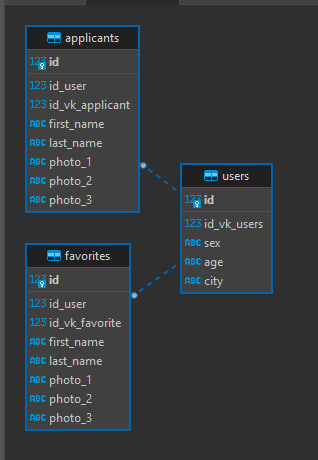
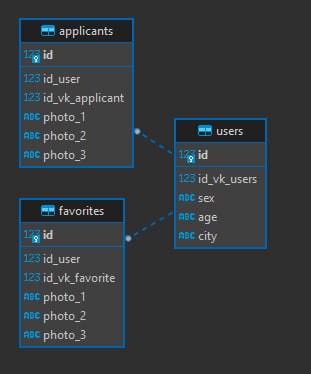
delete last and first name

diff --git a/BD/models_BD.py b/BD/models_BD.py
@@ -29,8 +29,6 @@ class APPLICANTS(Base):
     id: Mapped[int] = mapped_column(primary_key=True)
     id_user: Mapped[int] = mapped_column(ForeignKey("users.id"), nullable=False)
     id_vk_applicant: Mapped[int] = mapped_column(nullable=False, unique=True)
-    first_name: Mapped[str] = mapped_column(String(40))
-    last_name: Mapped[str] = mapped_column(String(50))
     photo_1: Mapped[str]
     photo_2: Mapped[str]
     photo_3: Mapped[str]
@@ -48,8 +46,6 @@ class FAVORITES(Base):
     id: Mapped[int] = mapped_column(primary_key=True)
     id_user: Mapped[int] = mapped_column(ForeignKey("users.id"), nullable=False)
     id_vk_favorite: Mapped[int] = mapped_column(nullable=False, unique=True)
-    first_name: Mapped[str] = mapped_column(String(40))
-    last_name: Mapped[str] = mapped_column(String(50))
     photo_1: Mapped[str]
     photo_2: Mapped[str]
     photo_3: Mapped[str]
